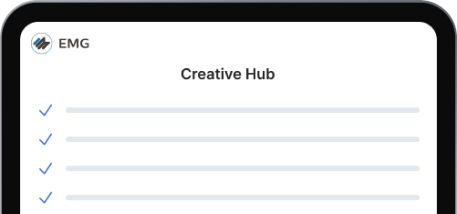
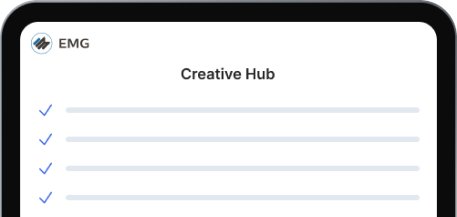
fix the header

diff --git a/resources.html b/resources.html
@@ -11,7 +11,7 @@
   <body>
     <div class="first-container mx-auto">
       <div class="flex flex-col gap-[38px] justify-center items-center">
-        <div class="flex justify-between items-center w-full p-7">
+        <div class="flex justify-between items-center w-full py-[38.8px] px-10">
           <div>
             <a href="./index.html">
               <img src="./images/emg-logo.png" />
@@ -79,8 +79,8 @@
                     </button>
                   </div>
                 </div>
-                <div>
-                  <img src="./images/case-studies-image.png" />
+                <div class="">
+                  <img class="" src="./images/case-studies-image.png" />
                 </div>
               </div>
               <div class="second-container flex gap-[30px]">

diff --git a/index.html b/index.html
@@ -11,7 +11,7 @@
   <body>
     <div class="first-container mx-auto">
       <div class="flex flex-col gap-[38px] justify-center items-center">
-        <div class="flex justify-between items-center w-full p-7">
+        <div class="flex justify-between items-center w-full py-[38.8px] px-10">
           <div>
             <img src="./images/emg-logo.png" />
           </div>
